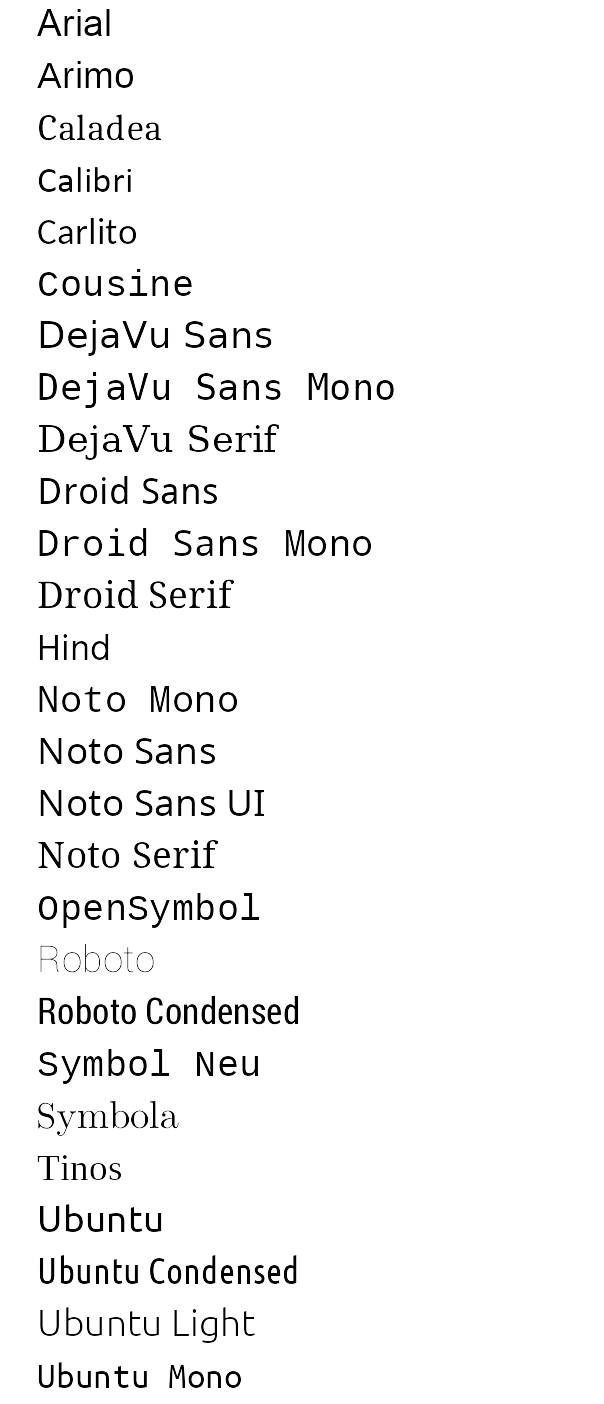
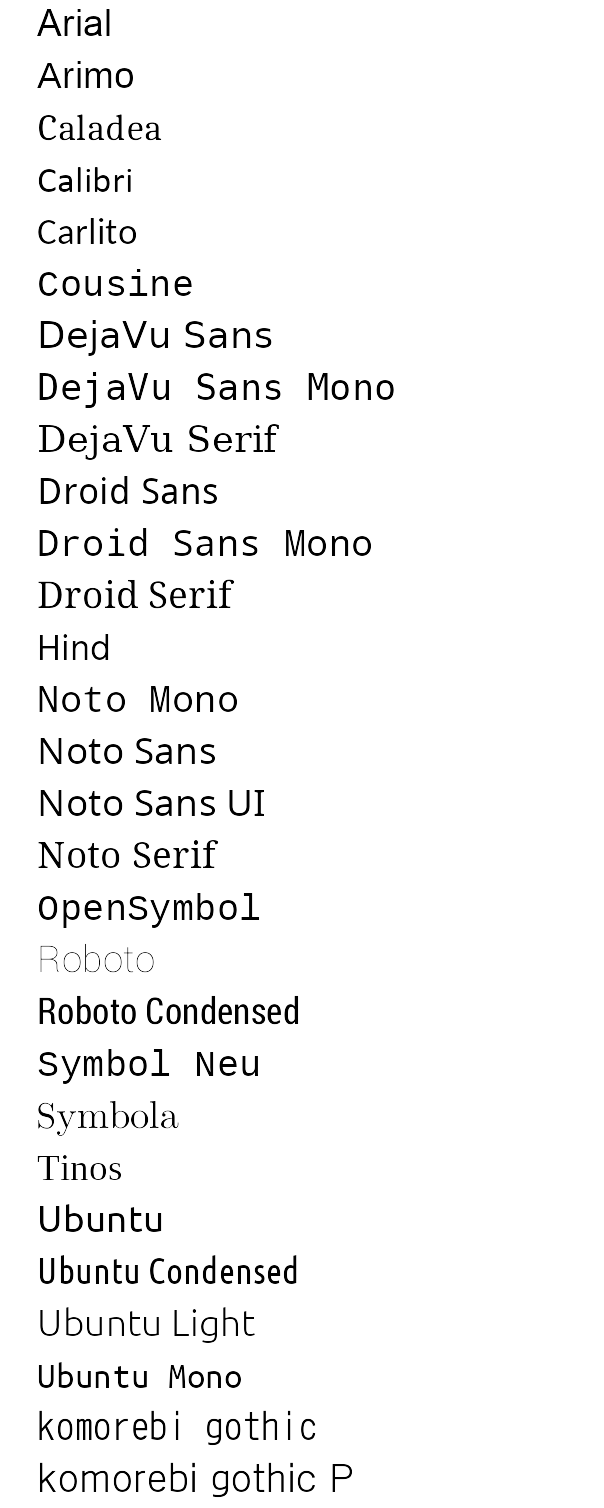
Add Japanese font

diff --git a/common/AllFonts.js b/common/AllFonts.js
@@ -39,6 +39,7 @@
 "NotoSansUI-Italic.ttf",
 "Roboto-LightItalic.ttf",
 "ariali.ttf",
+"komorebi-gothic-P.ttf",
 "Hind-Bold.ttf",
 "arialbd.ttf",
 "Cousine-Italic.ttf",
@@ -66,6 +67,7 @@
 "Tinos-Italic.ttf",
 "Symbola717.ttf",
 "Cousine-Regular.ttf",
+"komorebi-gothic.ttf",
 "DroidSansMono.ttf",
 "NotoSans-Bold.ttf",
 "UbuntuMono-R.ttf",
@@ -86,33 +88,35 @@
 ];
 
 window["__fonts_infos"] = [
-["Arial",9,0,39,0,41,0,74,0],
-["Arimo",48,0,35,0,27,0,17,0],
-["Caladea",43,0,25,0,82,0,10,0],
-["Calibri",4,0,22,0,73,0,58,0],
-["Carlito",45,0,61,0,78,0,12,0],
-["Cousine",66,0,42,0,16,0,31,0],
-["DejaVu Sans",15,0,-1,-1,57,0,-1,-1],
+["Arial",9,0,39,0,42,0,76,0],
+["Arimo",49,0,35,0,27,0,17,0],
+["Caladea",44,0,25,0,84,0,10,0],
+["Calibri",4,0,22,0,75,0,59,0],
+["Carlito",46,0,62,0,80,0,12,0],
+["Cousine",67,0,43,0,16,0,31,0],
+["DejaVu Sans",15,0,-1,-1,58,0,-1,-1],
 ["DejaVu Sans Mono",5,0,-1,-1,29,0,-1,-1],
-["DejaVu Serif",44,0,-1,-1,77,0,-1,-1],
-["Droid Sans",28,0,-1,-1,71,0,-1,-1],
-["Droid Sans Mono",67,0,-1,-1,-1,-1,-1,-1],
-["Droid Serif",21,0,60,0,47,0,36,0],
-["Hind",55,0,-1,-1,40,0,-1,-1],
+["DejaVu Serif",45,0,-1,-1,79,0,-1,-1],
+["Droid Sans",28,0,-1,-1,73,0,-1,-1],
+["Droid Sans Mono",69,0,-1,-1,-1,-1,-1,-1],
+["Droid Serif",21,0,61,0,48,0,36,0],
+["Hind",56,0,-1,-1,41,0,-1,-1],
 ["Noto Mono",18,0,-1,-1,-1,-1,-1,-1],
-["Noto Sans",80,0,75,0,68,0,23,0],
-["Noto Sans UI",70,0,37,0,76,0,62,0],
-["Noto Serif",33,0,51,0,53,0,26,0],
+["Noto Sans",82,0,77,0,70,0,23,0],
+["Noto Sans UI",72,0,37,0,78,0,63,0],
+["Noto Serif",33,0,52,0,54,0,26,0],
 ["OpenSymbol",30,0,-1,-1,-1,-1,-1,-1],
-["Roboto",83,0,81,0,63,0,20,0],
-["Roboto Condensed",79,0,32,0,56,0,0,0],
+["Roboto",85,0,83,0,64,0,20,0],
+["Roboto Condensed",81,0,32,0,57,0,0,0],
 ["Symbol Neu",8,0,-1,-1,-1,-1,-1,-1],
-["Symbola",65,0,-1,-1,-1,-1,-1,-1],
-["Tinos",54,0,64,0,50,0,34,0],
-["Ubuntu",19,0,11,0,14,0,72,0],
+["Symbola",66,0,-1,-1,-1,-1,-1,-1],
+["Tinos",55,0,65,0,51,0,34,0],
+["Ubuntu",19,0,11,0,14,0,74,0],
 ["Ubuntu Condensed",7,0,-1,-1,-1,-1,-1,-1],
-["Ubuntu Light",2,0,6,0,49,0,52,0],
-["Ubuntu Mono",69,0,1,0,3,0,24,0]
+["Ubuntu Light",2,0,6,0,50,0,53,0],
+["Ubuntu Mono",71,0,1,0,3,0,24,0],
+["komorebi gothic",68,0,-1,-1,-1,-1,-1,-1],
+["komorebi gothic P",40,0,-1,-1,-1,-1,-1,-1]
 ];
 
[2 lines of base64/hex data omitted]
